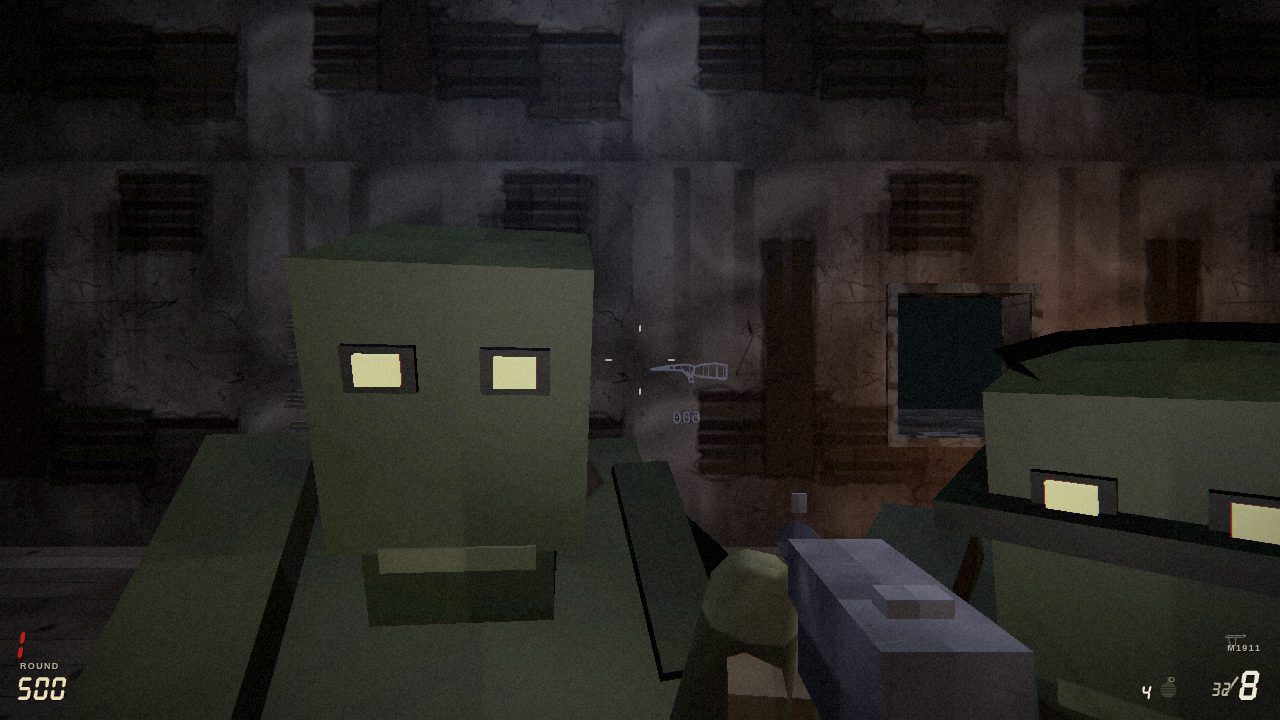
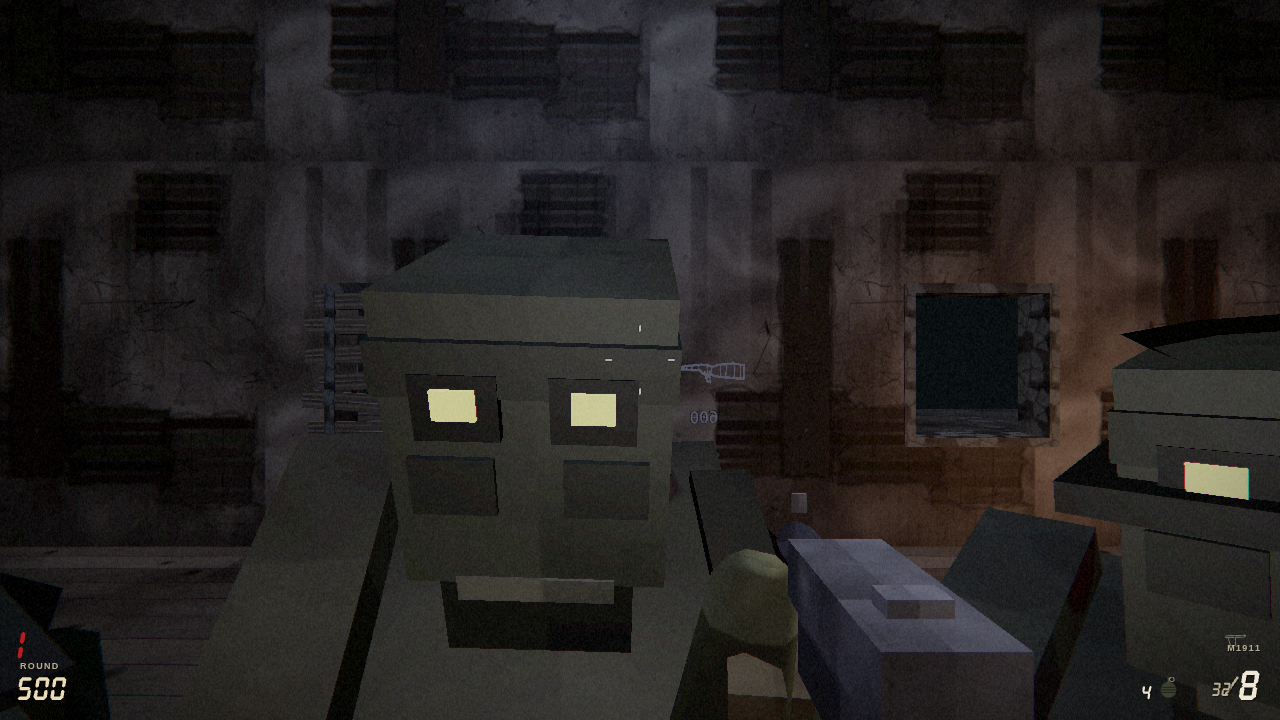
fix: zombies read as flat green cards rather than corpses
Round three's visual critic: "a flat green rectangle with two glowing
squares that only resolves into a decayed WWII soldier if you already know
the jaw and socket geometry is sitting under there in the mesh data."

Two causes. The head had a slack jaw, teeth strip, eye sockets and a torn
cheek patch, but nothing separated them: skinDark sat at 0.300 against
skin at 0.475, barely a third of a stop apart, so every feature merged
into one lit plane. skinDark is now 0.185, and the face gained the three
shapes that actually carry a skull at distance — a brow band across the
upper face putting the eyes in shadow, deeper and wider sockets around the
amber glow, and hollow-cheek shadows beneath them.

The colour was the other half. zombie_skin's texture is already a
green-grey ramp and its tint multiplied green on top of it, landing at a
product of [0.151, 0.183, 0.112] — a bright pea-green, not the ashen
feldgrau of the original. Tint is now near-neutral with a faint green
lean, so the uniform reads as filthy field-grey and the flesh as ash.

Worst simulation cost 1.67 ms of the 16.67 ms frame budget, 97 draw
calls. All seven checks pass.

Story: EPIC-VIS-S12

Claude-Session: https://claude.ai/code/session_01P2JyCRkCoPS6Ms7N71LdqN

diff --git a/nacht_der_untoten.html b/nacht_der_untoten.html
@@ -5126,7 +5126,7 @@ Z.assert = function (cond, msg) {
 }());
 
 
-/* ============================ 06_textures.js (1999 lines) ============================ */
+/* ============================ 06_textures.js (2002 lines) ============================ */
 // ---------------------------------------------------------------------------
 // 06_textures.js — Z.Tex: all game textures, generated to <canvas> at runtime.
 // No image assets. Everything below is procedural. Owner: technical-artist.
@@ -6821,7 +6821,10 @@ Z.assert = function (cond, msg) {
     }
     grime(ctx, size, seedN, 1);
     forceSeamEdges(c);
-    return { canvas: c, size, tile: [true, true], spec: 0.12, gloss: 0.15, emissive: 0, normal: null, tint: [0.66, 0.72, 0.58] };
+    // Near-neutral, faintly green. The texture is already a green-grey ramp,
+    // and a green tint on top of it stacked into a bright pea-green that read
+    // as a painted card rather than ashen dead flesh in feldgrau.
+    return { canvas: c, size, tile: [true, true], spec: 0.12, gloss: 0.15, emissive: 0, normal: null, tint: [0.70, 0.65, 0.78] };
   }
   // zombie_cloth and zombie_face removed 2026-09-02: both were fully
   // generated and registered but never referenced anywhere (repo-wide grep
@@ -10222,7 +10225,7 @@ Z.assert = function (cond, msg) {
 }());
 
 
-/* ============================ 13_models.js (1479 lines) ============================ */
+/* ============================ 13_models.js (1488 lines) ============================ */
 // ---------------------------------------------------------------------------
 // 13_models.js — Z.Models: every piece of geometry in the game that is not a
 // level brush. Zombies (skinned + variants), procedural animation, first
@@ -10304,7 +10307,7 @@ Z.assert = function (cond, msg) {
     leatherHi: [0.160, 0.132, 0.104],
     skin: [0.475, 0.500, 0.395],       // grey-green dead flesh
     skinPale: [0.560, 0.575, 0.470],
-    skinDark: [0.300, 0.325, 0.260],
+    skinDark: [0.185, 0.198, 0.168],
     flesh: [0.360, 0.120, 0.110],      // stumps / open wounds
     fleshDark: [0.170, 0.052, 0.050],
     fleshWet: [0.460, 0.080, 0.075],
@@ -10612,10 +10615,19 @@ Z.assert = function (cond, msg) {
       box(b, hx - 0.062 * rk, hy - 0.075, hz - 0.086 * rk, hx + 0.062 * rk, hy - 0.005, hz + 0.028 * rk, COL.skinDark);
       // exposed teeth strip where the jaw hangs open
       box(b, hx - 0.05 * rk, hy - 0.028, hz - 0.09 * rk, hx + 0.05 * rk, hy - 0.010, hz - 0.06 * rk, COL.teeth, { shade: false });
+      // Brow ridge: a dark band straight across, so the whole upper face is
+      // in shadow and the head stops reading as one flat lit card.
+      box(b, hx - 0.084 * rk, hy + 0.118, hz - 0.094 * rk, hx + 0.084 * rk, hy + 0.150, hz - 0.062 * rk,
+        COL.skinDark, { shade: false });
       // sunken eye sockets — dark recess, then a smaller glowing pupil set
       // just proud of it so the amber reads as coming from inside the skull.
-      box(b, hx - 0.058 * rk, hy + 0.10, hz - 0.093 * rk, hx - 0.018 * rk, hy + 0.128, hz - 0.07 * rk, COL.eye, { shade: false });
-      box(b, hx + 0.018 * rk, hy + 0.10, hz - 0.093 * rk, hx + 0.058 * rk, hy + 0.128, hz - 0.07 * rk, COL.eye, { shade: false });
+      box(b, hx - 0.062 * rk, hy + 0.092, hz - 0.095 * rk, hx - 0.014 * rk, hy + 0.132, hz - 0.066 * rk, COL.eye, { shade: false });
+      box(b, hx + 0.014 * rk, hy + 0.092, hz - 0.095 * rk, hx + 0.062 * rk, hy + 0.132, hz - 0.066 * rk, COL.eye, { shade: false });
+      // cheekbone shadow under each socket — the hollow-cheeked corpse read
+      box(b, hx - 0.070 * rk, hy + 0.040, hz - 0.092 * rk, hx - 0.020 * rk, hy + 0.078, hz - 0.070 * rk,
+        COL.skinDark, { shade: false });
+      box(b, hx + 0.020 * rk, hy + 0.040, hz - 0.092 * rk, hx + 0.070 * rk, hy + 0.078, hz - 0.070 * rk,
+        COL.skinDark, { shade: false });
       b.setEmissive(1);
       box(b, hx - 0.050 * rk, hy + 0.106, hz - 0.098 * rk, hx - 0.026 * rk, hy + 0.124, hz - 0.086 * rk, COL.eyeGlow, { shade: false });
       box(b, hx + 0.026 * rk, hy + 0.106, hz - 0.098 * rk, hx + 0.050 * rk, hy + 0.124, hz - 0.086 * rk, COL.eyeGlow, { shade: false });

diff --git a/src/game/13_models.js b/src/game/13_models.js
@@ -79,7 +79,7 @@
     leatherHi: [0.160, 0.132, 0.104],
     skin: [0.475, 0.500, 0.395],       // grey-green dead flesh
     skinPale: [0.560, 0.575, 0.470],
-    skinDark: [0.300, 0.325, 0.260],
+    skinDark: [0.185, 0.198, 0.168],
     flesh: [0.360, 0.120, 0.110],      // stumps / open wounds
     fleshDark: [0.170, 0.052, 0.050],
     fleshWet: [0.460, 0.080, 0.075],
@@ -387,10 +387,19 @@
       box(b, hx - 0.062 * rk, hy - 0.075, hz - 0.086 * rk, hx + 0.062 * rk, hy - 0.005, hz + 0.028 * rk, COL.skinDark);
       // exposed teeth strip where the jaw hangs open
       box(b, hx - 0.05 * rk, hy - 0.028, hz - 0.09 * rk, hx + 0.05 * rk, hy - 0.010, hz - 0.06 * rk, COL.teeth, { shade: false });
+      // Brow ridge: a dark band straight across, so the whole upper face is
+      // in shadow and the head stops reading as one flat lit card.
+      box(b, hx - 0.084 * rk, hy + 0.118, hz - 0.094 * rk, hx + 0.084 * rk, hy + 0.150, hz - 0.062 * rk,
+        COL.skinDark, { shade: false });
       // sunken eye sockets — dark recess, then a smaller glowing pupil set
       // just proud of it so the amber reads as coming from inside the skull.
-      box(b, hx - 0.058 * rk, hy + 0.10, hz - 0.093 * rk, hx - 0.018 * rk, hy + 0.128, hz - 0.07 * rk, COL.eye, { shade: false });
-      box(b, hx + 0.018 * rk, hy + 0.10, hz - 0.093 * rk, hx + 0.058 * rk, hy + 0.128, hz - 0.07 * rk, COL.eye, { shade: false });
+      box(b, hx - 0.062 * rk, hy + 0.092, hz - 0.095 * rk, hx - 0.014 * rk, hy + 0.132, hz - 0.066 * rk, COL.eye, { shade: false });
+      box(b, hx + 0.014 * rk, hy + 0.092, hz - 0.095 * rk, hx + 0.062 * rk, hy + 0.132, hz - 0.066 * rk, COL.eye, { shade: false });
+      // cheekbone shadow under each socket — the hollow-cheeked corpse read
+      box(b, hx - 0.070 * rk, hy + 0.040, hz - 0.092 * rk, hx - 0.020 * rk, hy + 0.078, hz - 0.070 * rk,
+        COL.skinDark, { shade: false });
+      box(b, hx + 0.020 * rk, hy + 0.040, hz - 0.092 * rk, hx + 0.070 * rk, hy + 0.078, hz - 0.070 * rk,
+        COL.skinDark, { shade: false });
       b.setEmissive(1);
       box(b, hx - 0.050 * rk, hy + 0.106, hz - 0.098 * rk, hx - 0.026 * rk, hy + 0.124, hz - 0.086 * rk, COL.eyeGlow, { shade: false });
       box(b, hx + 0.026 * rk, hy + 0.106, hz - 0.098 * rk, hx + 0.050 * rk, hy + 0.124, hz - 0.086 * rk, COL.eyeGlow, { shade: false });

diff --git a/src/game/06_textures.js b/src/game/06_textures.js
@@ -1692,7 +1692,10 @@
     }
     grime(ctx, size, seedN, 1);
     forceSeamEdges(c);
-    return { canvas: c, size, tile: [true, true], spec: 0.12, gloss: 0.15, emissive: 0, normal: null, tint: [0.66, 0.72, 0.58] };
+    // Near-neutral, faintly green. The texture is already a green-grey ramp,
+    // and a green tint on top of it stacked into a bright pea-green that read
+    // as a painted card rather than ashen dead flesh in feldgrau.
+    return { canvas: c, size, tile: [true, true], spec: 0.12, gloss: 0.15, emissive: 0, normal: null, tint: [0.70, 0.65, 0.78] };
   }
   // zombie_cloth and zombie_face removed 2026-09-02: both were fully
   // generated and registered but never referenced anywhere (repo-wide grep
